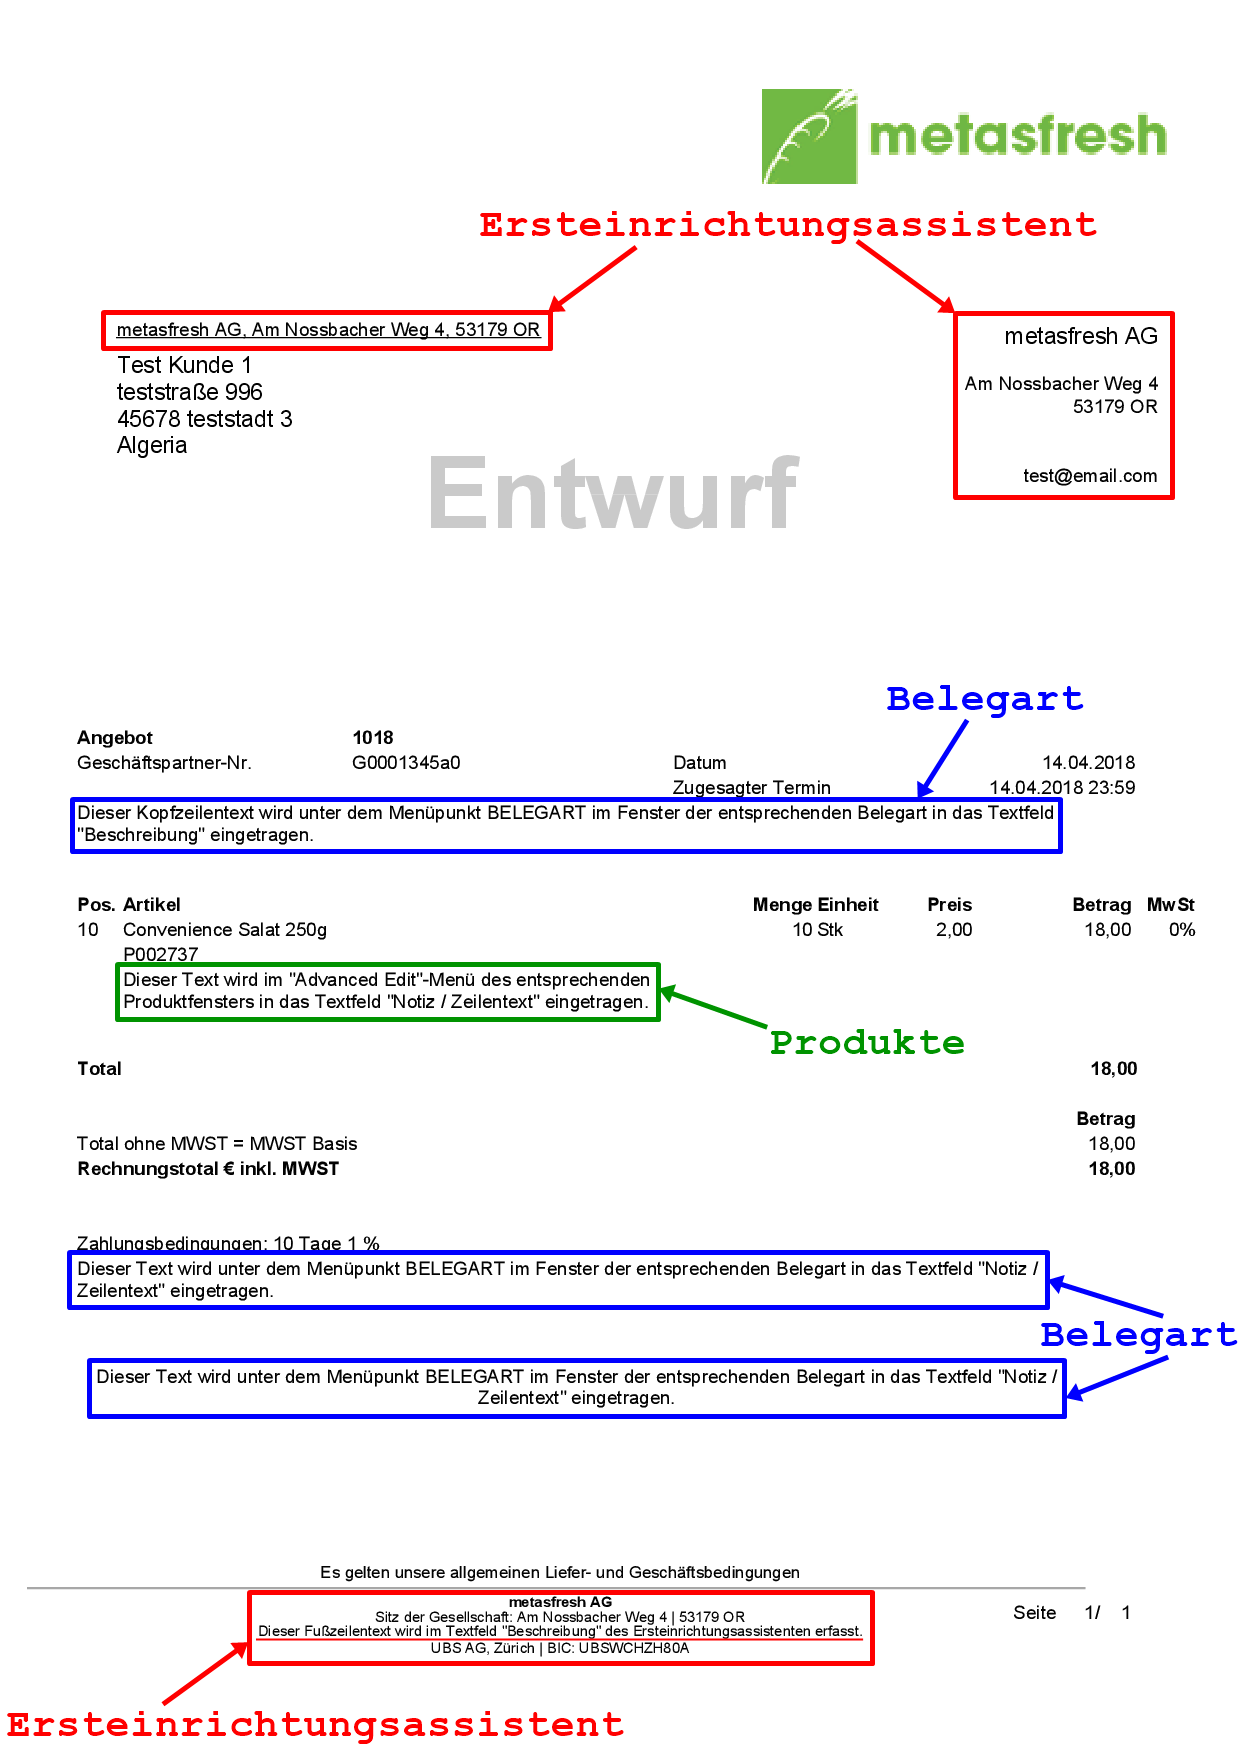
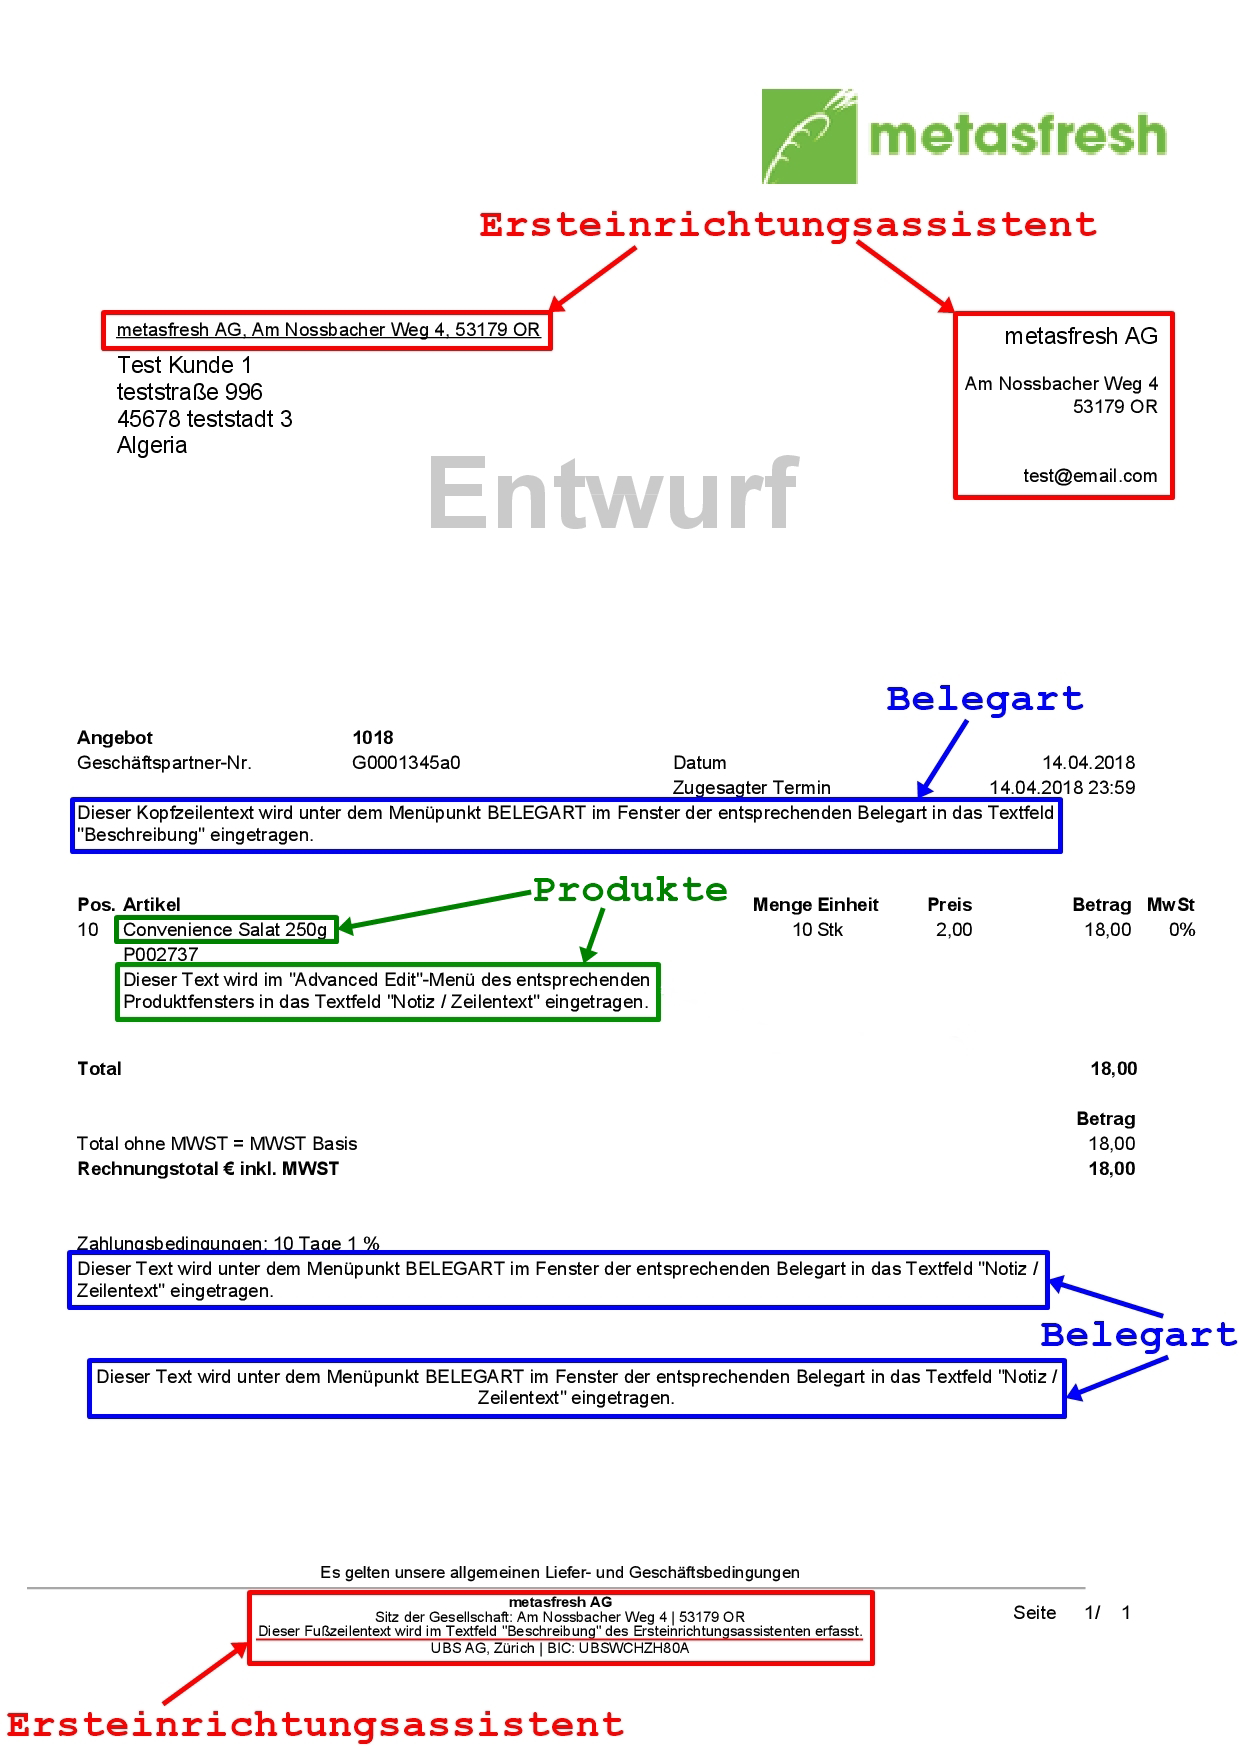
Updated text on documents  docs in EN+DE
- renamed ref partner_related_products to partner-specific_products &
adjusted gif names
- added ref order_line-specific_product_description in EN+DE
- updated all related docs accordingly & reorganized and resequenced
them for better comprehension

(this is about issue #316 )

diff --git a/_webui_collection/EN/Partner-specific_products.md b/_webui_collection/EN/Partner-specific_products.md
@@ -1,0 +1,38 @@
+---
+title: How do I manage partner-specific products?
+layout: default
+tags:
+  - Master Data
+  - Product
+  - Product Description
+lang: en
+sequence: 10
+ref: partner-specific_products
+---
+
+## Overview
+Sometimes the business partners' product names and numbers differ from your own even though they refer to the same product. For instance, in your system you hold the product *Carrots*, but the customer prefers calling it *Orange roots* and the vendor *Rabbit food*.<br>
+So, in order to avoid any misunderstandings and ending up with several names and numbers for the same product in your system, you can assign **partner-specific product names and numbers** without having to modify your own internal data.
+
+These partner-specific product names and numbers will then appear on the documents of the respective business partners instead of the names and numbers you use for internal product management purposes.
+
+For additional information on how to place manual text on documents, please see [here](Print_text_on_documents-general).
+
+## Steps
+1. Open the entry of an existing [product](Menu) or [add a new one](NewProduct).
+1. Go to the record tab "Business Partner" at the bottom of the page and click ![](assets/Add_New_Button.png). A new window opens up.
+1. Enter the name of the **Business Partner**.
+ >**Note 1:** Business partners can be customers and vendors.<br><br>
+ >**Note 2:** Hit `SPACE` to see all business partners.<br><br>
+ >**Note 3:** Select one of the shown options with the mouse or ![](../DE/assets/Workflow_Auftrag_Bis_Rechnung_WebUI-73797.png).
+
+1. Check the box **For Vendor** or **For Customer** according to the respective business relation for which the new name should be used.
+1. Enter the partner-specific **Product name**.
+1. Enter the partner-specific **Product number**.
+1. Click "Done" to close the window and add the partner-specific data to the list.
+ >**Note:** Repeat steps 2 to 7 to add further partner-specific data.
+
+**Note:** For internal purposes you keep using your own product names and numbers. Externally, the respective partner-specific product names and numbers will automatically appear in documents such as sales order confirmations, shipment notes and invoices.
+
+## Example
+![](assets/Partner-specific_products.gif)

diff --git a/_webui_collection/DE/Auftragszeilenspezifische_Produktbeschreibung.md b/_webui_collection/DE/Auftragszeilenspezifische_Produktbeschreibung.md
@@ -1,0 +1,35 @@
+---
+title: Wie erfasse ich eine auftragszeilenspezifische Produktbeschreibung?
+layout: default
+tags:
+  - Stammdaten
+  - Produkt
+  - Produktbeschreibung
+lang: de
+sequence: 30
+ref: order_line-specific_product_description
+---
+
+## Übersicht
+Eine auftragszeilenspezifische Produktbeschreibung kann nur im Auftrag erfasst werden und erscheint anschließend auch nur auf der Auftragsbestätigung unterhalb des Produktnamens.
+
+Weitere Informationen darüber, wie Du eigenen Text in Belege einfügen kannst, gibt es [hier](Text_auf_Belege_drucken-allgemein).
+
+## Schritte
+- Folge der [Anleitung zur Erfassung eines Auftrags](Auftrag_erfassen) bis zum **Schritt 4 der Auftragszeileneingabe**.
+
+### Variante 1: Direkter Weg über die Auftragszeile
+1. Bewege die horizontale Bildlaufleiste der Auftragszeilentabelle nach rechts, bis Du die Spalte **Beschreibung** erreichst.
+1. Klicke doppelt auf das Feld **Beschreibung** der Auftragszeile, für die Du eine Beschreibung erfassen möchtest, und gib dort einen Text ein.
+1. Bestätige mit `↵ Enter` oder klicke irgendwo im Auftrag auf eine freie Fläche.
+
+### Variante 2: Umweg über die "Erweiterte Erfassung"
+1. Öffne die ["Erweiterte Erfassung"](AdvancedEditTab_Öffnen) der Auftragszeile, für die Du eine Beschreibung erfassen möchtest.
+1. Scrolle runter bis zum Textfeld **Beschreibung** und gib hier Deinen Text ein.
+1. Klicke auf "Bestätigen", um die Änderungen zu übernehmen und das Fenster zu schließen.
+
+## Nächste Schritte
+- Folge den restlichen Schritten zur [Auftragserfassung](Auftrag_erfassen), um den Auftrag abzuschließen.
+
+## Beispiel
+![](assets/Auftragszeilenspezifische_Produktbeschreibung.gif)

diff --git a/_webui_collection/EN/Order_line-specific_product_description.md b/_webui_collection/EN/Order_line-specific_product_description.md
@@ -1,0 +1,35 @@
+---
+title: How do I record an order line-specific product description?
+layout: default
+tags:
+  - Master Data
+  - Product
+  - Product Description
+lang: en
+sequence: 30
+ref: order_line-specific_product_description
+---
+
+## Overview
+An order line-specific product description can only be recorded in a sales order and will thus also only appear on the sales order confirmation underneath the product name.
+
+For additional information on how to place manual text on documents, please see [here](Print_text_on_documents-general).
+
+## Steps
+- Follow these [instructions for creating a sales order](SalesOrder_recording) up to **step 4 of the order line input**.
+
+### Option 1: Direct way via the order line
+1. Move the horizontal scrollbar of the order line table to the right until you reach the column **Description**.
+1. Double-click the field **Description** of the order line for which you want to record a description and enter a text there.
+1. Hit `↵ Enter` or click on a blank space anywhere in the sales order to apply.
+
+### Option 2: Alternative way via the advanced edit menu
+1. Open the [advanced edit menu](Open_AdvancedEditTab) of the order line for which you want to record a description.
+1. Scroll down to the text box **Description** and enter your text here.
+1. Click "Done" to apply the changes and close the window.
+
+## Next Steps
+- Follow the remaining steps for [creating a sales order](SalesOrder_recording) to complete the order.
+
+## Example
+![](assets/Order_line-specific_product_description.gif)

diff --git a/_webui_collection/DE/Text_auf_Belege_drucken-allgemein.md b/_webui_collection/DE/Text_auf_Belege_drucken-allgemein.md
@@ -3,8 +3,9 @@ title: Wie füge ich eigenen Text in Belege ein?
 layout: default
 tags:
   - Einrichtung
+  - Belege bearbeiten
 lang: de
-sequence: 50
+sequence: 20
 ref: print_text_on_documents-general
 ---
 
@@ -30,8 +31,14 @@ Klicke [hier](Ersteinrichtung), wenn Du die Textstellen mithilfe des Ersteinrich
 
 ## Produkte
 
-#### Produktbeschreibung hinzufügen
-Klicke [hier](Text_auf_Belege_drucken-Produkt), wenn Du dem bestellten Produkt auf dem Beleg eine Beschreibung hinzufügen möchtest.
+#### Partnerspezifische Produkte verwalten
+Klicke [hier](Partnerspezifische_Produkte), wenn Du partnerspezifische Produktnamen und -nummern erfassen möchtest, die anstelle Deiner intern verwendeten Namen und Nummern auf den Belegen der jeweiligen Geschäftspartner erscheinen.
+
+#### Allgemeine Produktbeschreibung hinzufügen
+Klicke [hier](Text_auf_Belege_drucken-Produkt), wenn Du einem Produkt eine allgemeine Beschreibung hinzufügen möchtest, die auf allen Belegen erscheint.
+
+#### Auftragszeilenspezifische Produktbeschreibung hinzufügen
+Klicke [hier](Auftragszeilenspezifische_Produktbeschreibung), wenn Du einem Produkt eine Beschreibung hinzufügen möchtest, die ausschließlich auf der Auftragsbestätigung erscheint.
 
 ---
 

diff --git a/_webui_collection/DE/Partnerspezifische_Produkte.md b/_webui_collection/DE/Partnerspezifische_Produkte.md
@@ -4,14 +4,19 @@ layout: default
 tags:
   - Stammdaten
   - Produkt
+  - Produktbeschreibung
 lang: de
-sequence: 40
+sequence: 10
 ref: partner-specific_products
 ---
 
 ## Übersicht
 Manchmal weichen die Produktnamen und -nummern der Geschäftspartner von Deinen eigenen ab, obwohl es sich um dasselbe Produkt handelt. Beispielsweise führst Du in Deinem System das Produkt *Karotten*, der Kunde bevorzugt jedoch die Bezeichnung *Möhren* und der Lieferant die Bezeichnung *Wurzeln*.<br>
 Um also Missverständnisse zu vermeiden und Dein eigenes System nicht mit mehreren Bezeichnungen für ein und dasselbe Produkt zu überfüllen, kannst Du **partnerspezifische Produktnamen und -nummern** vergeben, ohne Deine internen Daten verändern zu müssen.
+
+Diese partnerspezifischen Produktnamen und -nummern erscheinen dann auf den Belegen der jeweiligen Geschäftspartner anstelle der Namen und Nummern, die Du für die interne Produktverwaltung verwendest.
+
+Weitere Informationen darüber, wie Du eigenen Text in Belege einfügen kannst, gibt es [hier](Text_auf_Belege_drucken-allgemein).
 
 ## Schritte
 1. Öffne den Eintrag eines bestehenden [Produktes](Menu) bzw. [lege ein neues an](NeuesProdukt).

diff --git a/_webui_collection/EN/Print_text_on_documents-general.md b/_webui_collection/EN/Print_text_on_documents-general.md
@@ -3,8 +3,9 @@ title: How do I place manual text on documents?
 layout: default
 tags:
   - Setup
+  - Edit Documents
 lang: en
-sequence: 50
+sequence: 20
 ref: print_text_on_documents-general
 ---
 
@@ -30,8 +31,14 @@ Click [here](InitialSetupWizard), if you want to edit these text passages with t
 
 ## Product
 
-#### Add a product description
-Click [here](Print_text_on_documents-product), if you want to add a description to the ordered product on the document.
+#### Partner-specific product management
+Click [here](Partner-specific_products), if you want to record partner-specific product names and numbers that will appear on the documents of the respective business partners instead of the names and numbers you use for internal product management purposes.
+
+#### Add a general product description
+Click [here](Print_text_on_documents-product), if you want to add a general product description that will appear on all documents.
+
+#### Add an order line-specific product description
+Click [here](Order_line-specific_product_description), if you want to add a product description that will appear on the order confirmation only.
 
 ---
 

diff --git a/_webui_collection/DE/Text_auf_Belege_drucken-Produkt.md b/_webui_collection/DE/Text_auf_Belege_drucken-Produkt.md
@@ -1,16 +1,17 @@
 ---
-title: Wie erfasse ich eine Produktbeschreibung, die auch auf Belegen erscheint?
+title: Wie erfasse ich eine allgemeine Produktbeschreibung, die auf allen Belegen erscheint?
 layout: default
 tags:
   - Stammdaten
   - Produkt
+  - Produktbeschreibung
 lang: de
-sequence: 80
+sequence: 20
 ref: print_text_on_documents-product
 ---
 
 ## Übersicht
-Dieser Text erscheint unter dem Produktnamen auf dem Beleg.
+Dieser Text erscheint unterhalb des Produktnamens auf allen Belegen.
 
 Weitere Informationen darüber, wie Du eigenen Text in Belege einfügen kannst, gibt es [hier](Text_auf_Belege_drucken-allgemein).
 

diff --git a/_webui_collection/EN/Print_text_on_documents-product.md b/_webui_collection/EN/Print_text_on_documents-product.md
@@ -1,16 +1,17 @@
 ---
-title: How do I record a product description that will also appear on documents?
+title: How do I record a general product description that will appear on all documents?
 layout: default
 tags:
   - Master Data
   - Product
+  - Product Description
 lang: en
-sequence: 80
+sequence: 20
 ref: print_text_on_documents-product
 ---
 
 ## Overview
-This text will appear underneath the product name on the document.
+This text will appear underneath the product name on all documents.
 
 For additional information on how to place manual text on documents, please see [here](Print_text_on_documents-general).
 

diff --git a/_webui_collection/DE/Text_auf_Belege_drucken-Belegart.md b/_webui_collection/DE/Text_auf_Belege_drucken-Belegart.md
@@ -3,8 +3,9 @@ title: Wie füge ich eigenen Text an Anfang und Ende von Belegen ein?
 layout: default
 tags:
   - Einrichtung
+  - Belege bearbeiten
 lang: de
-sequence: 60
+sequence: 30
 ref: print_text_on_documents-doctype
 ---
 

diff --git a/_webui_collection/EN/Print_text_on_documents-doctype.md b/_webui_collection/EN/Print_text_on_documents-doctype.md
@@ -3,8 +3,9 @@ title: How do I place manual text at the top and bottom of documents?
 layout: default
 tags:
   - Setup
+  - Edit Documents
 lang: en
-sequence: 60
+sequence: 30
 ref: print_text_on_documents-doctype
 ---
 

diff --git a/_webui_collection/DE/Ausgehende_Belege_Konfig.md b/_webui_collection/DE/Ausgehende_Belege_Konfig.md
@@ -3,8 +3,9 @@ title: Wie richte ich die ausgehenden Belege ein?
 layout: default
 tags:
   - Einrichtung
+  - Belege bearbeiten
 lang: de
-sequence: 40
+sequence: 10
 ref: outbound_documents_config
 ---
 

diff --git a/_webui_collection/EN/Outbound_Documents_Config.md b/_webui_collection/EN/Outbound_Documents_Config.md
@@ -3,8 +3,9 @@ title: How do I configure the outbound documents?
 layout: default
 tags:
   - Setup
+  - Edit Documents
 lang: en
-sequence: 40
+sequence: 10
 ref: outbound_documents_config
 ---
 
